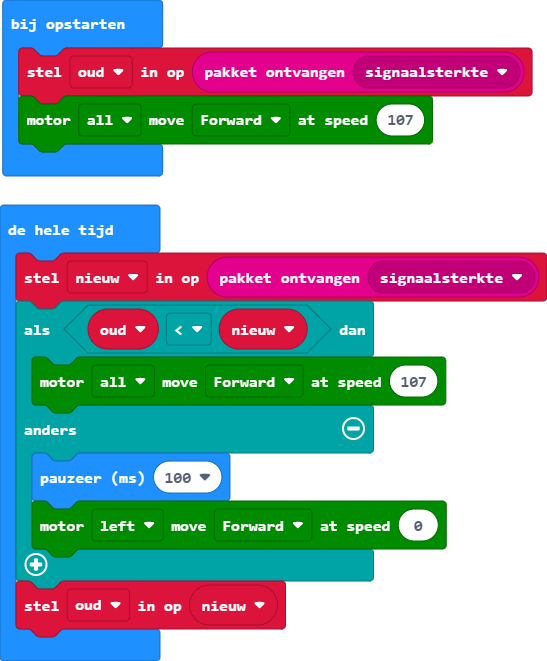
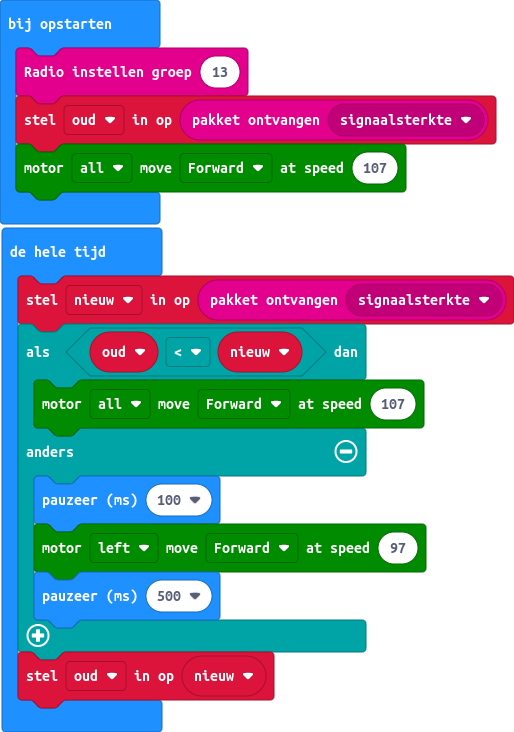
main.blocks, main.ts bijwerken

diff --git a/main.ts b/main.ts
@@ -1,4 +1,5 @@
 let nieuw = 0
+radio.setGroup(13)
 let oud = radio.receivedPacket(RadioPacketProperty.SignalStrength)
 maqueen.motorRun(maqueen.Motors.All, maqueen.Dir.CW, 107)
 basic.forever(function () {
@@ -7,7 +8,8 @@ basic.forever(function () {
         maqueen.motorRun(maqueen.Motors.All, maqueen.Dir.CW, 107)
     } else {
         basic.pause(100)
-        maqueen.motorRun(maqueen.Motors.M1, maqueen.Dir.CW, 0)
+        maqueen.motorRun(maqueen.Motors.M1, maqueen.Dir.CW, 97)
+        basic.pause(500)
     }
     oud = nieuw
 })
